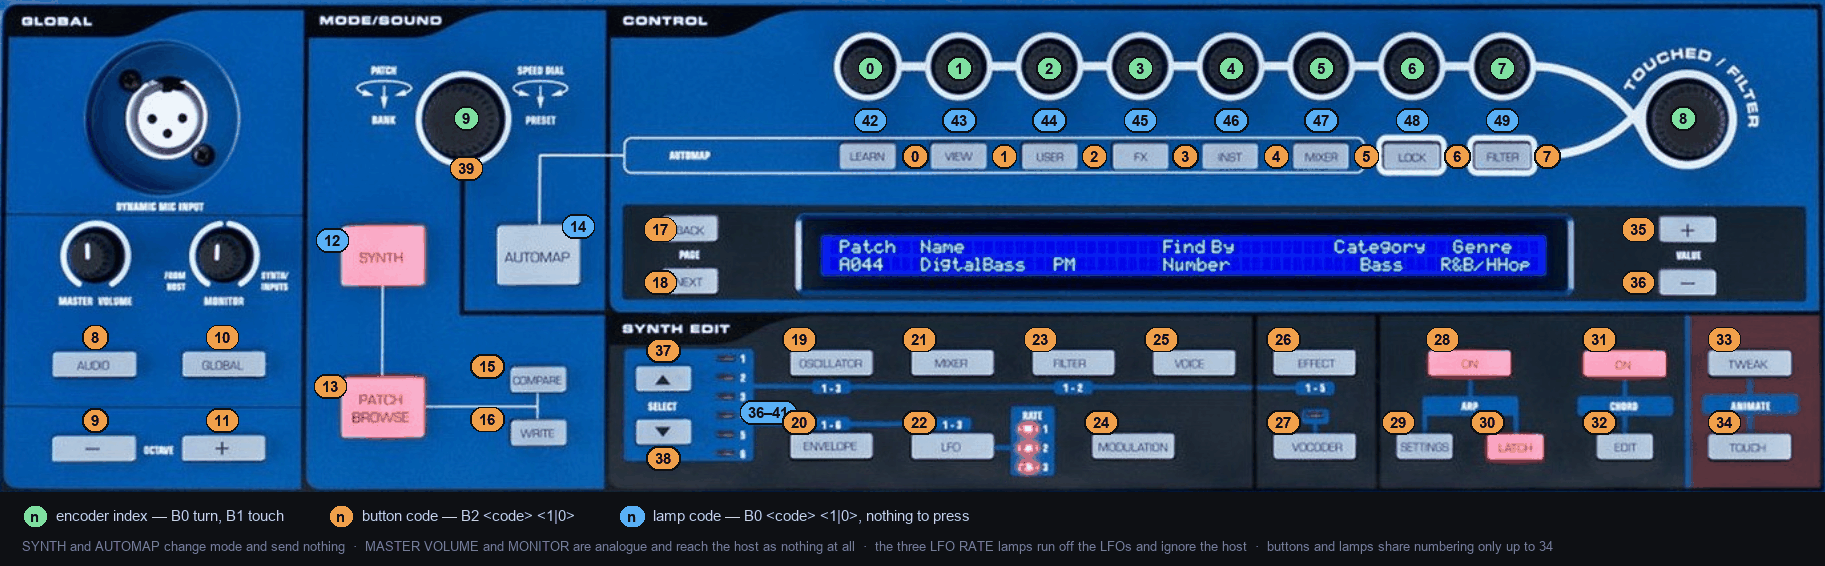
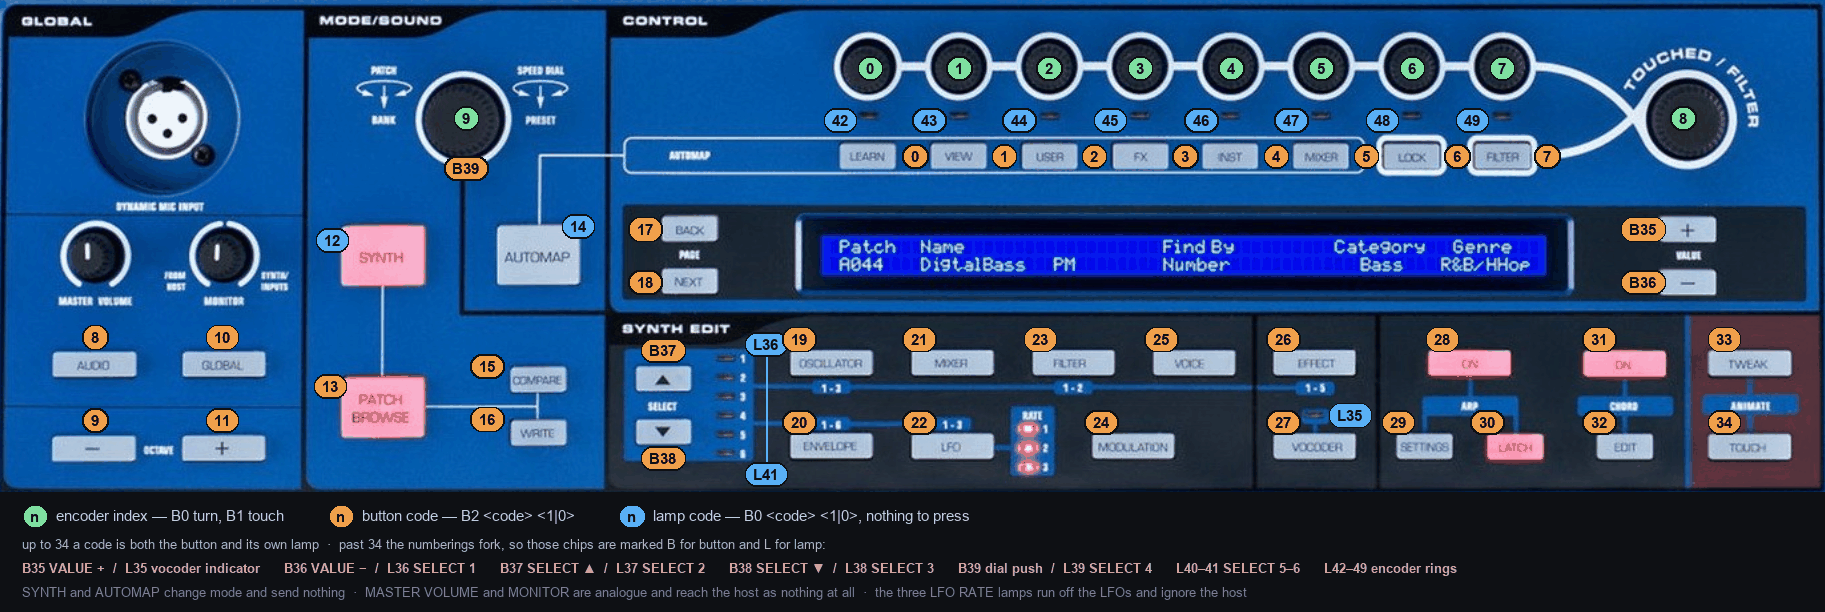
Docs: mark both numberings where they fork, and stop covering the lamps
- ring chips move beside the LED under each knob instead of onto it
- the extra indicator above VOCODER was never marked; it is lamp 35
- past code 34 the same digits mean a button or a lamp depending on
  direction, so those chips now carry B or L, with the pairs spelled out
  under the picture and as a table in docs/PANEL-MAP.md
- the SELECT range is bracketed outside the column so the panel's own
  1..6 digits stay readable, and BACK/NEXT are no longer covered

diff --git a/README.ru.md b/README.ru.md
@@ -221,9 +221,11 @@ sequenceDiagram
 
 Две вещи на этой картинке стоят отдельного взгляда — обе достались дорого.
 
-**Нумерация кнопок и ламп совпадает только до 34.** Дальше лампы уходят в индикаторы, за
-которыми нет кнопок. Код 35 — это `VALUE +`, если его нажать, и второй индикатор вокодера,
-если его зажечь.
+**Нумерация кнопок и ламп совпадает только до 34.** До этого предела код — это и кнопка, и
+её собственная лампа, одного числа достаточно. Дальше нумерации расходятся: 35 — это
+`VALUE +`, если нажать, и второй индикатор вокодера, если зажечь, — поэтому такие чипы
+помечены `B` для кнопки и `L` для лампы. Нагляднее всего это в блоке SELECT, где кнопки
+`B37` и `B38` стоят вплотную к лампам `L36`–`L41`, и ни одно число не совпадает.
 
 **`SYNTH` и `AUTOMAP` нажатий не шлют вообще.** Они меняют режим инструмента, и смена режима —
 единственное, что слышит хост. Лампы у них есть, 12 и 14, — и именно поэтому попытка вывести

diff --git a/docs/PANEL-MAP.md b/docs/PANEL-MAP.md
@@ -57,9 +57,23 @@ reported, so they are available if you want them.
 42–49   the rings under encoders 1–8
 ```
 
-> **Buttons and lamps share numbering only up to code 34.** Past that the lamps run on into
-> indicators that have no button behind them. Code 35 is `VALUE +` when pressed and the
-> vocoder indicator when lit. Above 49 nothing new lights up.
+> **Buttons and lamps share numbering only up to code 34.** Up to there a code is both the
+> button and its own lamp. Past 34 the two numberings fork and the same digits mean two
+> different things depending on which way the message is travelling:
+
+| Code | As a button — `B2 <code>` from the synth | As a lamp — `B0 <code>` to the synth |
+|---:|---|---|
+| 35 | VALUE + | the second vocoder indicator |
+| 36 | VALUE − | SELECT 1 |
+| 37 | SELECT ▲ | SELECT 2 |
+| 38 | SELECT ▼ | SELECT 3 |
+| 39 | patch dial push | SELECT 4 |
+| 40 | — | SELECT 5 |
+| 41 | — | SELECT 6 |
+| 42–49 | — | the rings under encoders 1–8 |
+
+So a button above 34 has no lamp of its own, and a lamp above 34 has no button. Above 49
+nothing new lights up.
 
 The three `RATE` lamps on the LFO section are driven by the LFOs themselves and cannot be
 addressed by the host.

diff --git a/README.md b/README.md
@@ -219,9 +219,11 @@ manual; that was tried, and it was wrong.
 
 Two things on that picture are worth pausing over, because both cost time to find out.
 
-**Buttons and lamps share numbering only up to 34.** Past that the lamps run on into
-indicators that have no button behind them. Code 35 is `VALUE +` when you press it, and the
-second vocoder indicator when you light it.
+**Buttons and lamps share numbering only up to 34.** Up to there a code is both the button
+and its own lamp, so one number says it all. Past 34 the numberings fork — 35 is `VALUE +`
+when you press it and the second vocoder indicator when you light it — so those chips carry
+a `B` for button or an `L` for lamp. The clearest place to see it is the SELECT block, where
+buttons `B37` and `B38` sit right beside lamps `L36`–`L41`, and none of the numbers line up.
 
 **`SYNTH` and `AUTOMAP` never report a press.** They change the instrument's mode, and the
 mode change is the only thing the host hears about. They do have lamps, 12 and 14 — which is
